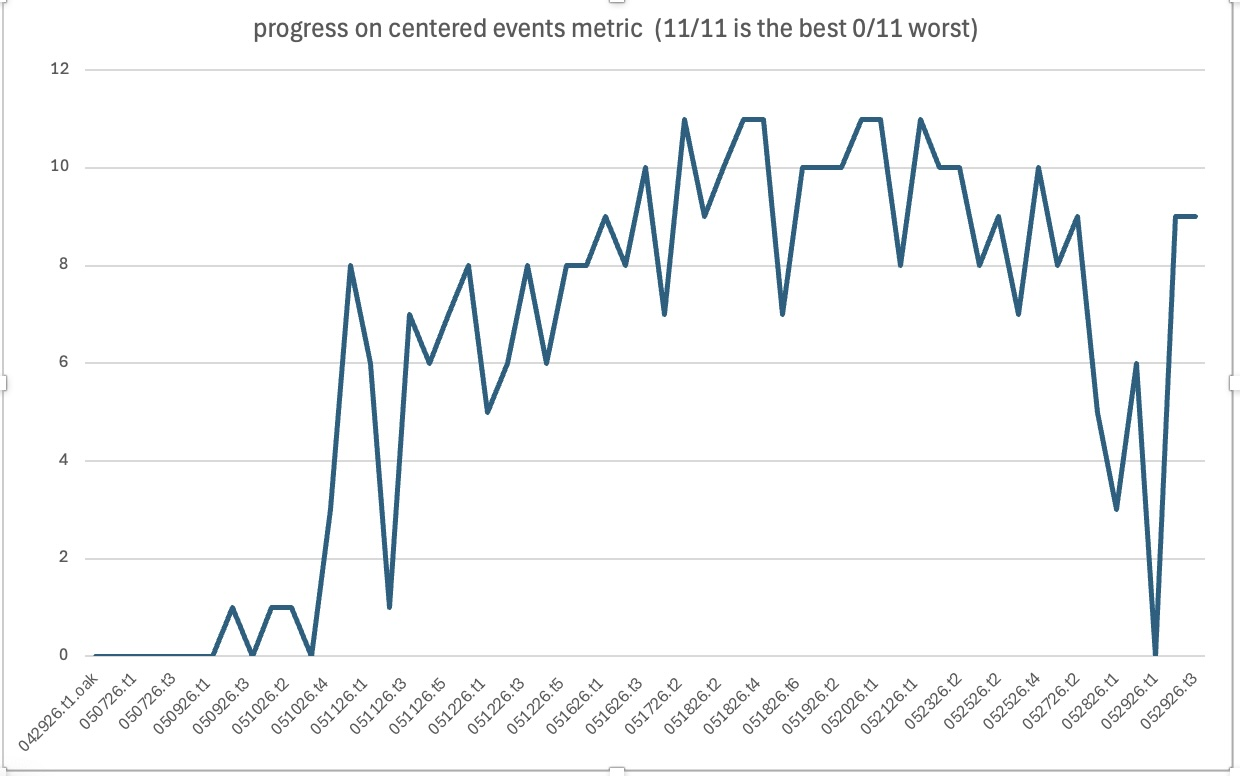
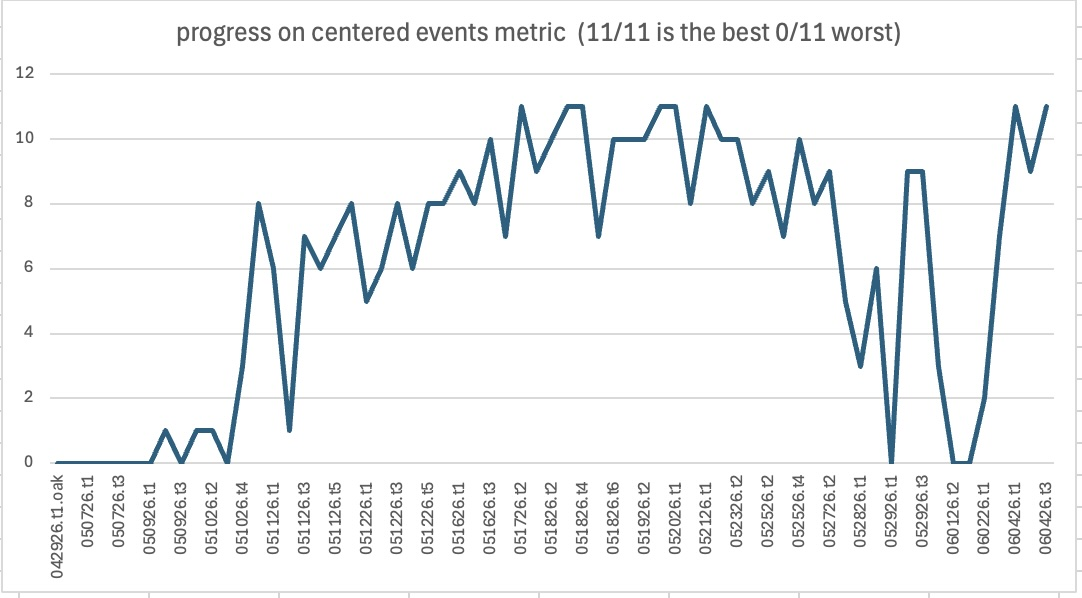
test results and jiggle heuristic changes

diff --git a/writing_robot_control/writing_robot_control/ball_balance_node.py b/writing_robot_control/writing_robot_control/ball_balance_node.py
@@ -234,6 +234,7 @@ class BallBalanceNode(Node):
         # Jiggle state — alternating roll direction when ball is lost
         self._jiggle_phase      = 0  # 0-3 cycles through 4-phase circular pattern
         self._last_jiggle_time  = None  # monotonic time of last jiggle publish
+        self._ball_lost_neutralized = False  # True once neutral cmd sent on ball-lost
 
         # 1Hz PID_SUMMARY accumulator — collects every /ball/position reading
         # at full 15Hz rate during active PID for accurate proximity stats.
@@ -344,6 +345,11 @@ class BallBalanceNode(Node):
             self._ball_pos             = msg
             self._ball_time            = time.monotonic()
             self._last_valid_ball_time = time.monotonic()
+            # Ball redetected — reset jiggle and neutral-cmd state so next
+            # ball-lost event starts fresh.
+            self._ball_lost_neutralized = False
+            self._last_jiggle_time      = None
+            self._jiggle_phase          = 0
 
             if self._pid_active:
                 import math as _m
@@ -507,6 +513,9 @@ class BallBalanceNode(Node):
                 self._acc_valid            = 0
                 self._acc_invalid          = 0
                 self._acc_near             = 0
+                self._ball_lost_neutralized = False
+                self._last_jiggle_time      = None
+                self._jiggle_phase          = 0
                 self._acc_tight            = 0
                 self._pub_enabled.publish(Bool(data=False))
             elif state == 'SETTLED':
@@ -602,9 +611,12 @@ class BallBalanceNode(Node):
             return
 
         # Ball-lost check — ball undetected for too long.
-        # After ball_lost_timeout: suspend normal PID.
-        # After jiggle_start_delay: issue small alternating flex commands to
-        # physically rock the cup and make the ball visible to the detector.
+        # After ball_lost_timeout: suspend normal PID and neutralize the last
+        # PID command so the wrist controller stops applying it. Without this,
+        # the wrist controller keeps executing the stale PID command for up to
+        # cmd_timeout=2.0s, potentially moving the cup further from the ball.
+        # After jiggle_start_delay: issue 4-phase circular jiggle commands to
+        # rock the cup and make the ball visible to the detector.
         # Jiggle stops immediately when ball is redetected (z>=0 in _ball_cb).
         ball_lost_timeout  = self.get_parameter('ball_lost_timeout').value
         jiggle_amplitude   = self.get_parameter('jiggle_amplitude').value
@@ -616,6 +628,19 @@ class BallBalanceNode(Node):
                 f'Ball lost for {lost_duration:.1f}s '
                 f'(>{ball_lost_timeout:.1f}s) — suspending PID.',
                 throttle_duration_sec=1.0)
+
+            # Publish neutral command once on ball-lost entry to cancel any
+            # stale PID command the wrist controller is still executing.
+            if not self._ball_lost_neutralized:
+                neutral = Vector3()
+                neutral.x = 0.0
+                neutral.y = 0.0
+                neutral.z = 0.0
+                if not self.get_parameter('dry_run').value:
+                    self._pub_cmd.publish(neutral)
+                self._ball_lost_neutralized = True
+                self.get_logger().info('Ball lost: published neutral cmd to cancel stale PID command')
+
             if lost_duration > jiggle_start_delay and jiggle_amplitude > 0.0:
                 # Rate-limit jiggle to correction rate (default 1Hz).
                 # Uses a 4-phase circular pattern so both axes are exercised:
